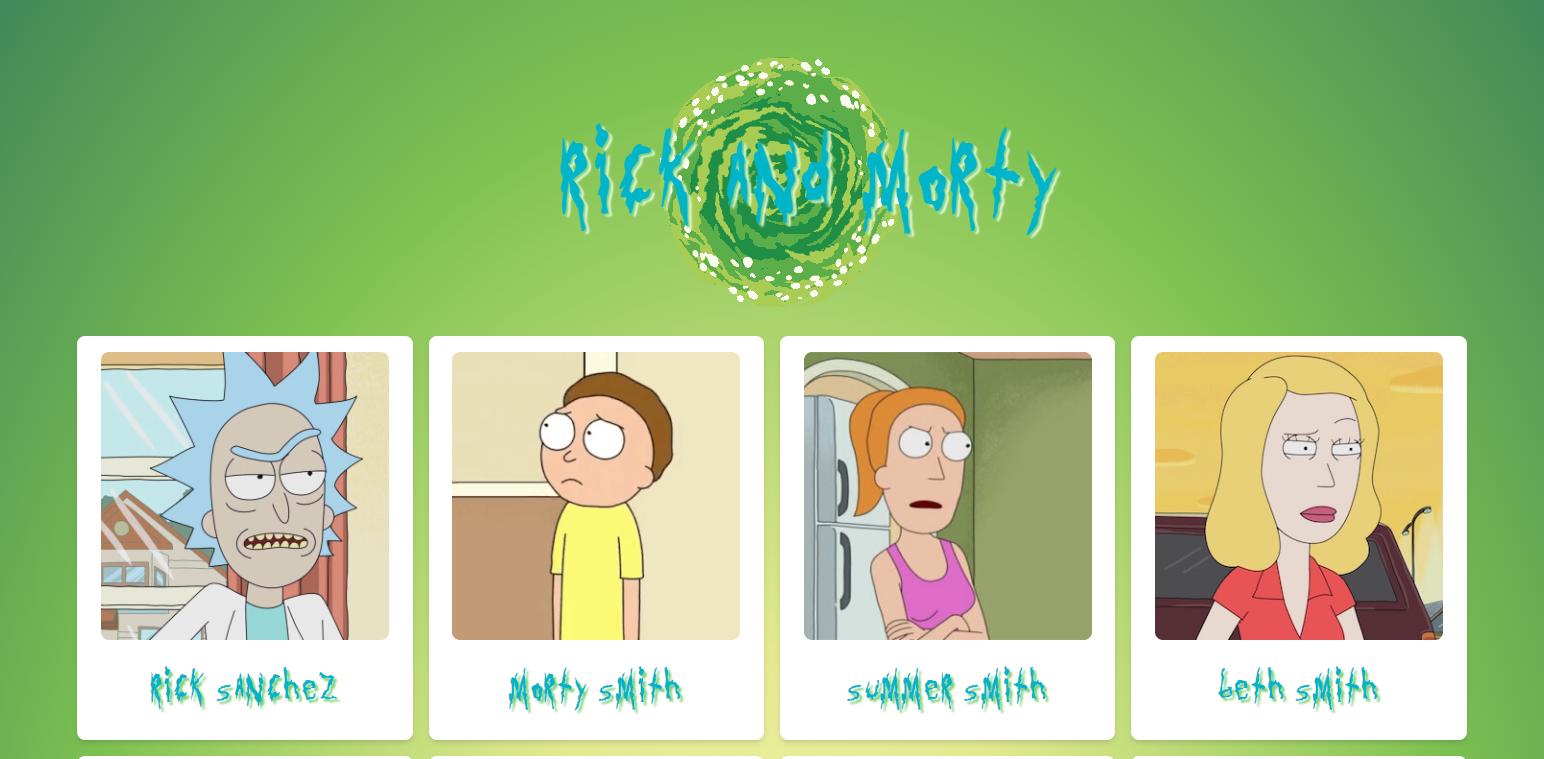
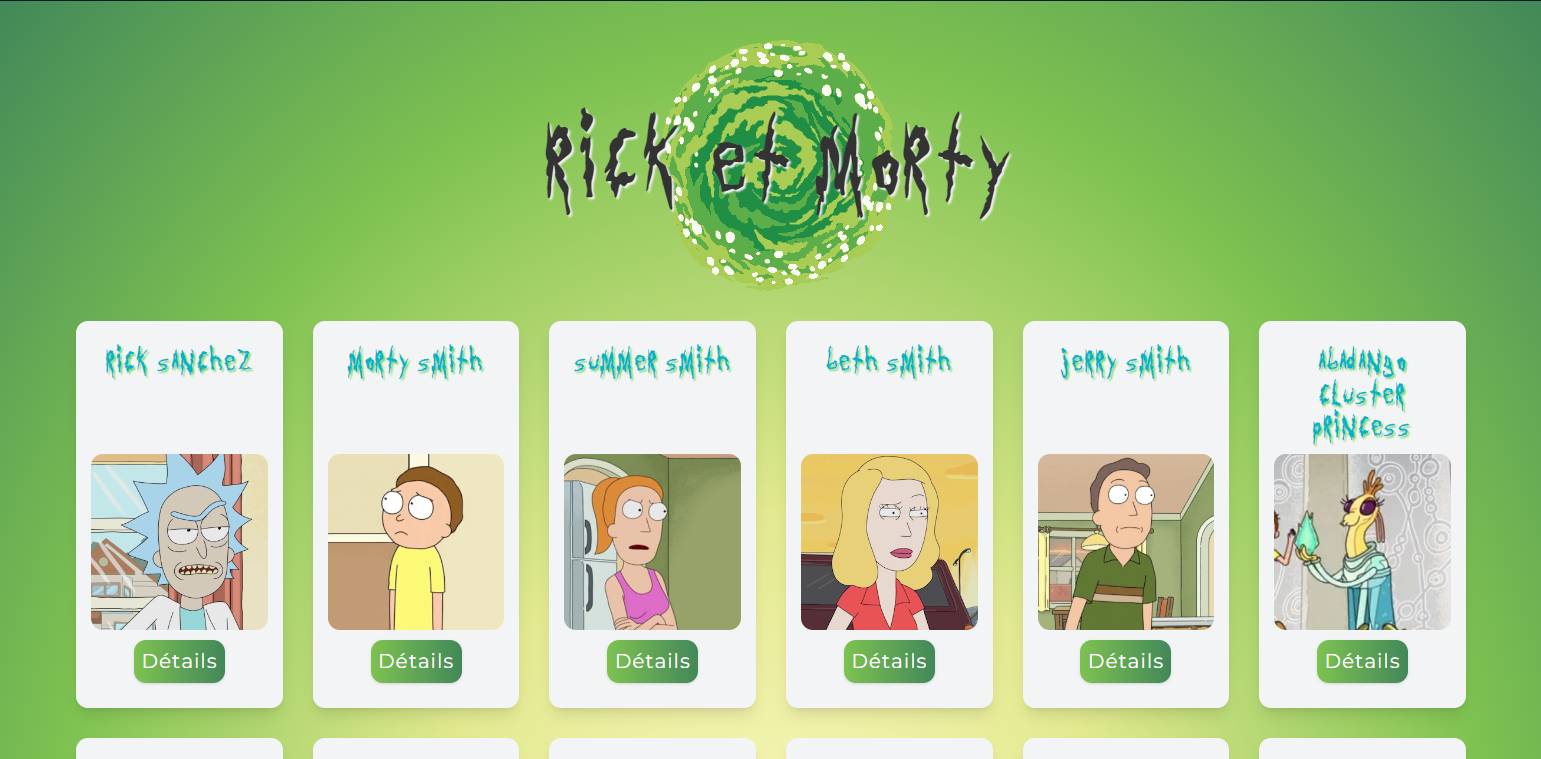
feat: Finishing project component

diff --git a/src/components/Projects/data.js b/src/components/Projects/data.js
@@ -35,8 +35,8 @@ export const projects = [
     id: 5,
     name: 'Liste des personnages dans Rick et Morty',
     text: "Liste des personnages dans la série animée Rick et Morty faites sous Reactjs. Elle est basée sur l'API Rick et Morty.",
-    gitlink: 'https://github.com/Kazimor-5/rick-and-morty-api',
-    link: 'https://rick-and-morty-api-project.netlify.app',
+    gitlink: 'https://github.com/Kazimor-5/rick_and_morty',
+    link: 'https://rick-and-morty-z1iy.vercel.app',
     img: './images/rick-and-morty.png',
   },
   {
@@ -57,18 +57,34 @@ export const projects = [
   },
   {
     id: 8,
-    name: 'API de jobs',
-    text: 'API de jobs réalisée en Node.js avec express. La base de données est crée via Mongodb.',
-    gitlink: '',
-    link: 'https://jobs-api-project1.herokuapp.com/api/docs/',
-    img: './images/job-api.png',
-  },
-  {
-    id: 10,
     name: 'Pokedex avec scroll infini',
     text: 'Pokedex réalisé sous Reactjs. Le traitement des données a été fait grâce à axios. Elle répertorie tout les pokémons existant à ce jours et intègre un sytème de scroll infini.',
     gitlink: 'https://github.com/Kazimor-5/pokedex-project',
     link: 'https://pokedex-api-infinite-scrolling.netlify.app',
     img: './images/pokedex.png',
+  },
+  {
+    id: 9,
+    name: 'Lecteur de musique',
+    text: 'Lecteur de musique créé avec Nextjs. Le projet a été conçu avec TypeScript.',
+    gitlink: 'https://github.com/Kazimor-5/music_reader',
+    link: 'https://music-reader.vercel.app',
+    img: './images/music_reader.png',
+  },
+  {
+    id: 10,
+    name: 'Bot Discord',
+    text: "Bot Discord créé en JavaScript avec le framework discord-js-commando. Ce projet utilise l'API de Discord.",
+    gitlink: 'https://github.com/Kazimor-5/bot_discord_js',
+    link: '',
+    img: './images/discord.png',
+  },
+  {
+    id: 11,
+    name: 'Onglets avec accessibilité',
+    text: 'Onglets avec accessibilité créés en HTML/CSS et JavaScript Vanilla.',
+    gitlink: 'https://github.com/Kazimor-5/tabs_with_accessibility',
+    link: 'https://kazimor-5.github.io/tabs_with_accessibility/',
+    img: './images/tabs_with_accessibility.png',
   },
 ];

diff --git a/src/styles/global.css b/src/styles/global.css
@@ -1,4 +1,5 @@
-@import url('https://fonts.googleapis.com/css2?family=Josefin+Sans:wght@400;500;600;700&display=swap');
+@import url('https://fonts.googleapis.com/css2?family=Montserrat:wght@100;200;300;400;500;600;700;800;900&display=swap');
+@import url('https://fonts.googleapis.com/css2?family=Hind:wght@300;400;500;600;700&display=swap');
 /* ! ========================ROOTING======================= */
 html {
   font-size: 62.5%; /*10px*/
@@ -35,22 +36,18 @@ html {
   /* ? REST OF THE COLORS */
   --black: hsl(0, 0%, 13%);
   --white: hsl(0, 0%, 100%);
-  --red-light: hsl(355, 70%, 91%);
-  --red-dark: hsl(355, 61%, 32%);
-  --green-light: hsl(153, 31%, 86%);
-  --green-dark: hsl(152, 69%, 19%);
   /* ? FONTS */
-  --headingFont: 'Josefin Sans', sans-serif;
-  --bodyFont: 'Josefin Sans', sans-serif;
+  --headingFont: 'Montserrat', sans-serif;
+  --bodyFont: 'Hind', sans-serif;
   --small-text: 0.7em;
   /* ? REST OF THE VARIABLES */
   --bg-color: var(--grey-50);
   --textColor: var(--grey-900);
   --border-radius: 0.5rem;
-  --letter-spacing: 1px;
+  --border-radius-pills: 9999px;
+  --letter-spacing: 0.1rem;
   --transition: all 0.3s ease-in-out;
   --max-width: 1170px;
-  --fixed-width: 600px;
   /* ? BOX SHADOWS */
   --shadow-1: 0 1px 3px 0 rgb(0 0 0 / 0.1), 0 1px 2px -1px rgb(0 0 0 / 0.1);
   --shadow-2: 0 4px 6px -1px rgb(0 0 0 / 0.1), 0 2px 4px -2px rgb(0 0 0 / 0.1);
@@ -72,9 +69,7 @@ p {
 }
 h1,
 h2,
-h3,
-h4,
-h5 {
+h3 {
   margin: 0;
   margin-bottom: 1.38rem;
   font-family: var(--headingFont);
@@ -90,16 +85,6 @@ h2 {
 }
 h3 {
   font-size: clamp(1.5rem, 3vw, 1.953rem);
-}
-h4 {
-  font-size: clamp(1.25rem, 3vw, 1.563rem);
-}
-h5 {
-  font-size: clamp(1.2rem, 3vw, 1.25rem);
-}
-small,
-.text_small {
-  font-size: var(--small-text);
 }
 a {
   text-decoration: none;

diff --git a/index.html b/index.html
@@ -4,6 +4,22 @@
     <meta charset="UTF-8" />
     <link rel="icon" type="image/svg+xml" href="/react_logo.svg" />
     <meta name="viewport" content="width=device-width, initial-scale=1.0" />
+    <meta
+      name="description"
+      content="Portfolio regroupant mes projets, mon profil GitHub, mon profil LinkedIn ainsi que mon CV."
+    />
+    <meta name="robots" content="index, follow" />
+    <meta name="twitter:card" content="summary_large_image" />
+    <meta name="twitter:creator" content="kazimor5" />
+    <meta
+      name="twitter:title"
+      content="Portfolio d'Alexandre-Benoît Fontaine"
+    />
+    <meta
+      name="twitter:description"
+      content="Portfolio regroupant mes projets, mon profil GitHub, mon profil LinkedIn ainsi que mon CV."
+    />
+    <meta name="twitter:image" content="./public/images/portfolio.png" />
     <title>Portfolio</title>
   </head>
   <body>

diff --git a/src/components/Projects/Projects.module.css b/src/components/Projects/Projects.module.css
@@ -45,8 +45,17 @@
 .article__project:hover {
   box-shadow: var(--shadow-4);
 }
+.article__project:hover .project__imgContainer img {
+  transform: scale(1.05);
+}
 .project__imgContainer {
+  height: 100%;
   width: 100%;
+  border-radius: var(--border-radius);
+  overflow: hidden;
+}
+.project__imgContainer img {
+  transition: var(--transition);
 }
 .project__paragraph {
   font-size: clamp(1.6rem, 3vw, 2rem);
@@ -65,11 +74,12 @@
   justify-content: center;
   min-width: 45%;
   font-size: clamp(1.6rem, 3vw, 2rem);
-  border-radius: 9999px;
+  border-radius: var(--border-radius-pills);
   background-color: var(--primary-500);
   color: var(--primary-800);
   transition: var(--transition);
   padding: 0.5rem 0.775rem;
+  letter-spacing: var(--letter-spacing);
 }
 .project__btn:hover {
   background-color: var(--primary-800);

diff --git a/src/components/SocialLinks/SocialLinks.module.css b/src/components/SocialLinks/SocialLinks.module.css
@@ -1,7 +1,7 @@
 .article__socialLinks {
-  display: flex;
+  display: grid;
   align-items: center;
-  justify-content: center;
+  justify-items: center;
   width: 100%;
   padding-bottom: 1.5rem;
 }
@@ -9,7 +9,6 @@
   width: 100%;
   display: grid;
   grid-template-columns: repeat(3, 1fr);
-
   align-items: center;
   justify-items: center;
 }
@@ -23,11 +22,12 @@
   display: flex;
   align-items: center;
   justify-content: space-around;
-  border-radius: 9999px;
+  border-radius: var(--border-radius-pills);
   transition: var(--transition);
   background-color: var(--primary-500);
   color: var(--primary-800);
   box-shadow: var(--shadow-2);
+  letter-spacing: var(--letter-spacing);
 }
 .anchor__socialLinks_btn:hover {
   background-color: var(--primary-800);

diff --git a/src/components/HeroBanner/HeroBanner.module.css b/src/components/HeroBanner/HeroBanner.module.css
@@ -17,7 +17,6 @@
   width: 90%;
   align-self: flex-start;
   font-size: clamp(30px, 3vw, 5rem);
-  color: #f1f1f1f1;
   padding-top: 10rem;
 }
 .article__svgContainer {

diff --git a/readme.md b/readme.md
@@ -1,0 +1,4 @@
+# Portfolio d'Alexandre-Benoît Fontaine
+
+C portfolio regroupe mes projets, mon profil GitHub, mon profil LinkedIn ainsi que mon CV.
+Il a été créé avec Reactjs grâce au bundler Vitejs.
